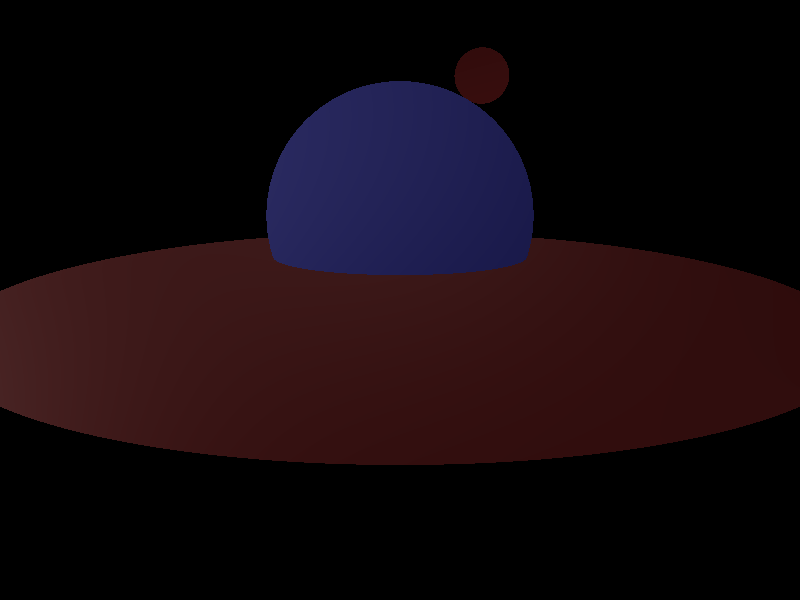
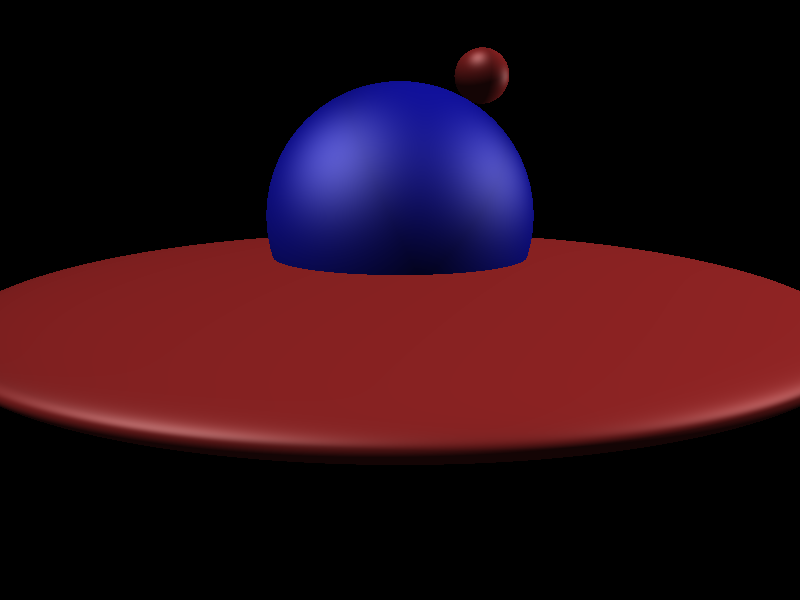
fixed shader bug

diff --git a/courses/cs6620/prj2.html b/courses/cs6620/prj2.html
@@ -5,7 +5,7 @@
 <h2>Venkata Kushal Ponnam</h2>
 
 <p> &#160;Project 2 - Shading</p>
-<p> Current Output.</p>
+<p> Blinn-Phong Shading</p>
 <IMG SRC="prj2.png" ALT="some text" WIDTH=800 HEIGHT=600>
 
 <p> Hardware : Core i7 - 2630QM (2.00GH)</p>
